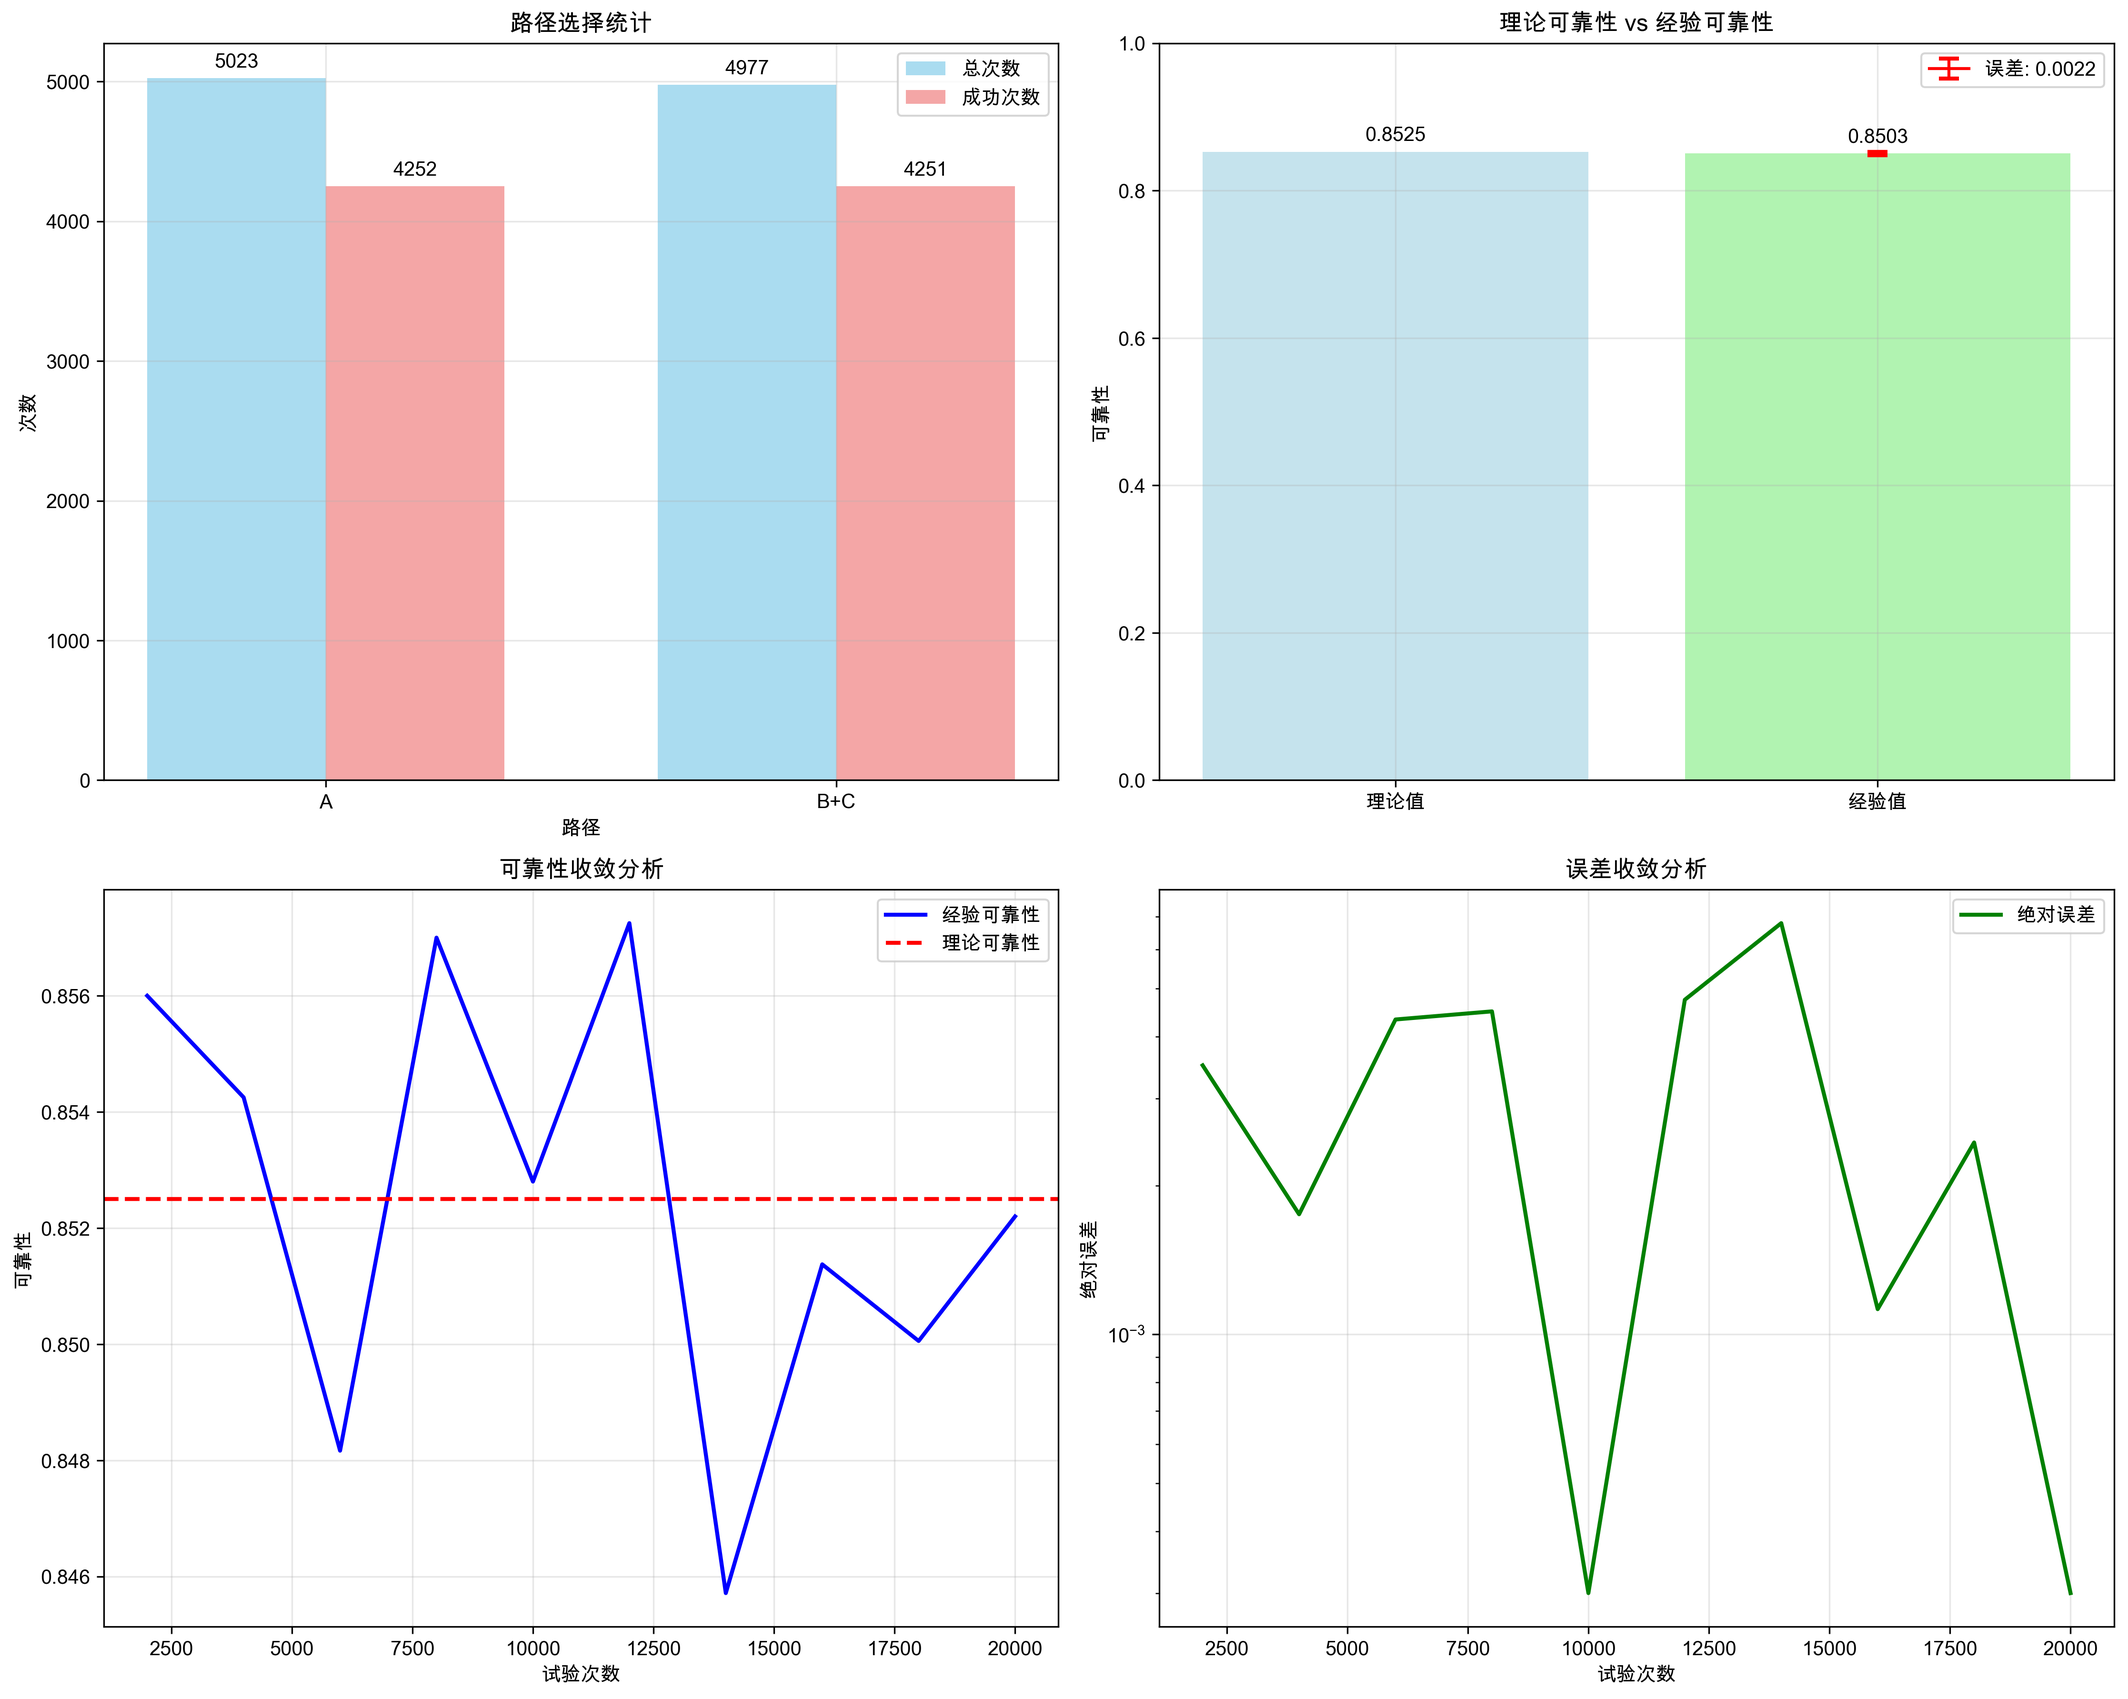
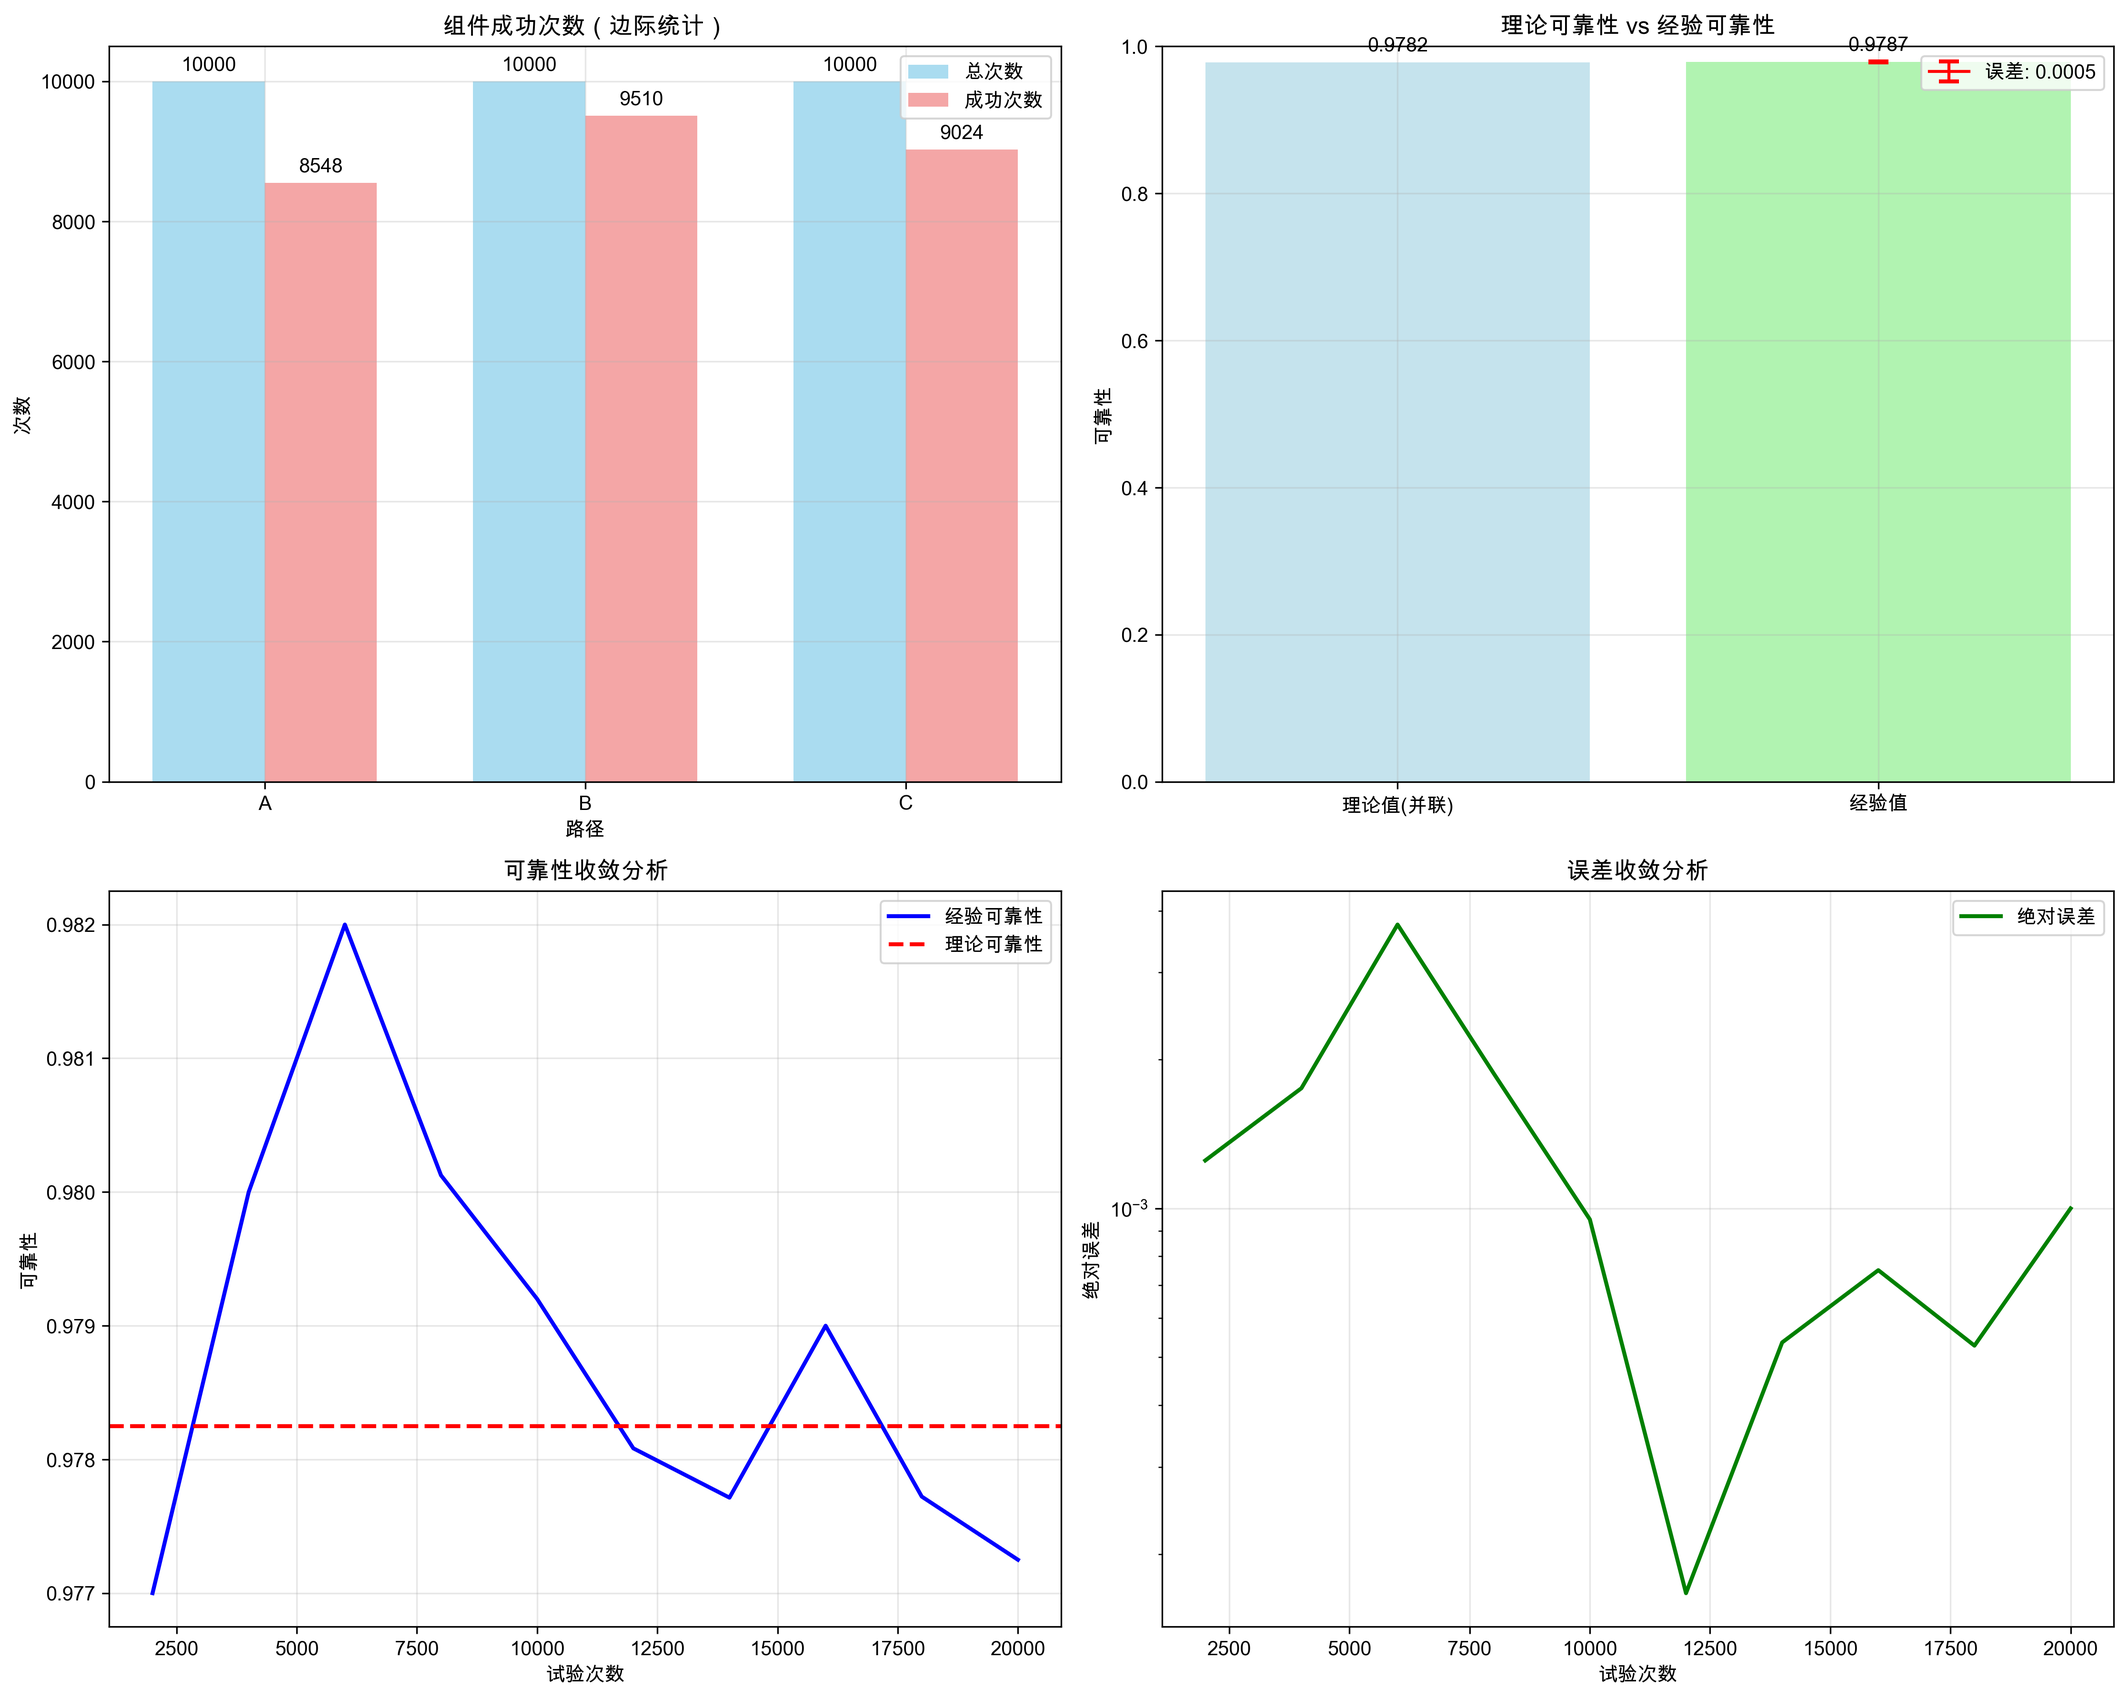
修正任务5

diff --git a/作业一/q5/system_reliability.py b/作业一/q5/system_reliability.py
@@ -13,20 +13,17 @@ class SystemReliability:
         """
         初始化系统可靠性仿真
         
-        系统结构：
-        - 输入通过两条路径：A路径 或 B+C路径
-        - A路径：50%概率，可靠性85%
-        - B+C路径：50%概率，B可靠性95%，C可靠性90%
+        系统结构（并联）：
+        - 上支路：组件A（可靠性85%）
+        - 下支路：组件B与组件C串联（可靠性 0.95×0.90=0.855）
+        - 系统成功条件：A 成功，或 B 与 C 同时成功
         """
         self.component_reliability = {
             'A': 0.85,
             'B': 0.95,
             'C': 0.90
         }
-        self.path_probability = {
-            'A': 0.5,  # 50%时间通过A
-            'B+C': 0.5  # 50%时间通过B+C
-        }
+        # 并联系统不需要路径选择概率
         
         # 计算理论可靠性
         self.theoretical_reliability = self.calculate_theoretical_reliability()
@@ -38,9 +35,9 @@ class SystemReliability:
         返回:
         float: 理论可靠性
         """
-        # P(系统成功) = P(通过A) × P(A成功) + P(通过B+C) × P(B成功) × P(C成功)
-        reliability = (self.path_probability['A'] * self.component_reliability['A'] + 
-                      self.path_probability['B+C'] * self.component_reliability['B'] * self.component_reliability['C'])
+        # 并联系统：R = 1 - (1-RA)*(1-RB*RC)
+        reliability_bc = self.component_reliability['B'] * self.component_reliability['C']
+        reliability = 1.0 - (1.0 - self.component_reliability['A']) * (1.0 - reliability_bc)
         return reliability
     
     def simulate_single_trial(self):
@@ -50,42 +47,25 @@ class SystemReliability:
         返回:
         dict: 包含试验结果的字典
         """
-        # 随机选择路径
-        path_choice = np.random.choice(['A', 'B+C'], p=[0.5, 0.5])
-        
-        if path_choice == 'A':
-            # A路径：生成一个随机数，如果≤0.85则成功
-            random_num = np.random.random()
-            success = random_num <= self.component_reliability['A']
-            return {
-                'path': 'A',
-                'success': success,
-                'random_num': random_num,
-                'threshold': self.component_reliability['A'],
-                'components': ['A']
-            }
-        else:
-            # B+C路径：生成两个随机数
-            random_num_b = np.random.random()
-            random_num_c = np.random.random()
-            
-            success_b = random_num_b <= self.component_reliability['B']
-            success_c = random_num_c <= self.component_reliability['C']
-            
-            # 只有B和C都成功，整个路径才成功
-            success = success_b and success_c
-            
-            return {
-                'path': 'B+C',
-                'success': success,
-                'random_num_b': random_num_b,
-                'random_num_c': random_num_c,
-                'threshold_b': self.component_reliability['B'],
-                'threshold_c': self.component_reliability['C'],
-                'success_b': success_b,
-                'success_c': success_c,
-                'components': ['B', 'C']
-            }
+        # 同时抽样三个组件是否成功
+        r_a = np.random.random()
+        r_b = np.random.random()
+        r_c = np.random.random()
+
+        success_a = r_a <= self.component_reliability['A']
+        success_b = r_b <= self.component_reliability['B']
+        success_c = r_c <= self.component_reliability['C']
+
+        success_bc = success_b and success_c
+        success = success_a or success_bc
+
+        return {
+            'success': success,
+            'success_a': success_a,
+            'success_b': success_b,
+            'success_c': success_c,
+            'components': ['A', 'B', 'C']
+        }
     
     def monte_carlo_simulation(self, num_trials=10000):
         """
@@ -101,8 +81,8 @@ class SystemReliability:
         
         results = []
         successful_trials = 0
-        path_counts = {'A': 0, 'B+C': 0}
-        path_successes = {'A': 0, 'B+C': 0}
+        # 统计单个组件的成功次数
+        component_successes = {'A': 0, 'B': 0, 'C': 0}
         
         for trial in range(num_trials):
             if trial % 1000 == 0 and trial > 0:
@@ -114,21 +94,16 @@ class SystemReliability:
             if result['success']:
                 successful_trials += 1
             
-            # 统计路径选择
-            path_counts[result['path']] += 1
-            if result['success']:
-                path_successes[result['path']] += 1
+            # 统计组件成功情况
+            component_successes['A'] += 1 if result['success_a'] else 0
+            component_successes['B'] += 1 if result['success_b'] else 0
+            component_successes['C'] += 1 if result['success_c'] else 0
         
         # 计算统计结果
         empirical_reliability = successful_trials / num_trials
         
-        # 计算路径成功率
-        path_success_rates = {}
-        for path in ['A', 'B+C']:
-            if path_counts[path] > 0:
-                path_success_rates[path] = path_successes[path] / path_counts[path]
-            else:
-                path_success_rates[path] = 0
+        # 组件边际成功率（用于参考）
+        component_success_rates = {k: v / num_trials for k, v in component_successes.items()}
         
         print(f"仿真完成！成功次数: {successful_trials}/{num_trials}")
         print(f"经验可靠性: {empirical_reliability:.6f}")
@@ -141,9 +116,8 @@ class SystemReliability:
             'empirical_reliability': empirical_reliability,
             'theoretical_reliability': self.theoretical_reliability,
             'error': abs(empirical_reliability - self.theoretical_reliability),
-            'path_counts': path_counts,
-            'path_successes': path_successes,
-            'path_success_rates': path_success_rates,
+            'component_successes': component_successes,
+            'component_success_rates': component_success_rates,
             'results': results
         }
     
@@ -189,10 +163,10 @@ class SystemReliability:
         else:
             fig, (ax1, ax2) = plt.subplots(1, 2, figsize=(15, 6))
         
-        # 左图：路径选择分布
-        paths = list(sim_result['path_counts'].keys())
-        counts = list(sim_result['path_counts'].values())
-        success_counts = list(sim_result['path_successes'].values())
+        # 左图：组件成功次数（边际）
+        paths = list(sim_result['component_successes'].keys())
+        counts = [sim_result['num_trials']] * len(paths)
+        success_counts = list(sim_result['component_successes'].values())
         
         x = np.arange(len(paths))
         width = 0.35
@@ -202,7 +176,7 @@ class SystemReliability:
         
         ax1.set_xlabel('路径')
         ax1.set_ylabel('次数')
-        ax1.set_title('路径选择统计')
+        ax1.set_title('组件成功次数（边际统计）')
         ax1.set_xticks(x)
         ax1.set_xticklabels(paths)
         ax1.legend()
@@ -214,7 +188,7 @@ class SystemReliability:
             ax1.text(i + width/2, success + max(counts)*0.01, str(success), ha='center', va='bottom')
         
         # 右图：可靠性对比
-        categories = ['理论值', '经验值']
+        categories = ['理论值(并联)', '经验值']
         values = [sim_result['theoretical_reliability'], sim_result['empirical_reliability']]
         colors = ['lightblue', 'lightgreen']
         
@@ -285,13 +259,11 @@ class SystemReliability:
         print(f"相对误差: {sim_result['error'] / sim_result['theoretical_reliability'] * 100:.4f}%")
         
         # 路径分析
-        print(f"\n路径分析:")
+        print(f"\n组件边际成功率:")
         print("-" * 30)
-        for path in ['A', 'B+C']:
-            count = sim_result['path_counts'][path]
-            success = sim_result['path_successes'][path]
-            success_rate = sim_result['path_success_rates'][path]
-            print(f"{path}路径: {success}/{count} = {success_rate:.4f}")
+        for comp in ['A', 'B', 'C']:
+            rate = sim_result['component_success_rates'][comp]
+            print(f"组件{comp}: {rate:.4f}")
         
         # 组件分析
         print(f"\n组件可靠性分析:")
@@ -303,15 +275,10 @@ class SystemReliability:
         # 理论计算验证
         print(f"\n理论计算验证:")
         print("-" * 30)
-        path_a_contribution = self.path_probability['A'] * self.component_reliability['A']
-        path_bc_contribution = (self.path_probability['B+C'] * 
-                              self.component_reliability['B'] * 
-                              self.component_reliability['C'])
-        total_reliability = path_a_contribution + path_bc_contribution
-        
-        print(f"A路径贡献: {self.path_probability['A']} × {self.component_reliability['A']} = {path_a_contribution:.4f}")
-        print(f"B+C路径贡献: {self.path_probability['B+C']} × {self.component_reliability['B']} × {self.component_reliability['C']} = {path_bc_contribution:.4f}")
-        print(f"总可靠性: {path_a_contribution:.4f} + {path_bc_contribution:.4f} = {total_reliability:.4f}")
+        reliability_bc = self.component_reliability['B'] * self.component_reliability['C']
+        total_reliability = 1.0 - (1.0 - self.component_reliability['A']) * (1.0 - reliability_bc)
+        print(f"R_BC = {self.component_reliability['B']} × {self.component_reliability['C']} = {reliability_bc:.4f}")
+        print(f"R_sys = 1 - (1-RA)(1-RBC) = {total_reliability:.5f}")
 
 def main():
     """
@@ -319,10 +286,9 @@ def main():
     """
     print("系统可靠性仿真 - 蒙特卡洛方法")
     print("=" * 50)
-    print("系统结构:")
-    print("- 输入通过两条路径：A路径 或 B+C路径")
-    print("- A路径：50%概率，可靠性85%")
-    print("- B+C路径：50%概率，B可靠性95%，C可靠性90%")
+    print("系统结构：并联")
+    print("- 上支路：A，可靠性0.85")
+    print("- 下支路：B与C串联，可靠性0.95×0.90=0.855")
     print("=" * 50)
     
     # 创建系统可靠性实例
@@ -348,8 +314,6 @@ def main():
         'Component_A_Reliability': system.component_reliability['A'],
         'Component_B_Reliability': system.component_reliability['B'],
         'Component_C_Reliability': system.component_reliability['C'],
-        'Path_A_Probability': system.path_probability['A'],
-        'Path_B+C_Probability': system.path_probability['B+C'],
         'Theoretical_Reliability': sim_result['theoretical_reliability'],
         'Empirical_Reliability': sim_result['empirical_reliability'],
         'Error': sim_result['error'],

diff --git a/作业一/1.md b/作业一/1.md
@@ -44,12 +44,14 @@ $$ f(x, y) = e^{-(x^2 + y^2)} $$
 
 图3 由分立部件组成的系统。
 
-当给定系统输入时，该输入通过部件A或通过部件B和C流动，每个部件都有一定的正确性可靠性。概率论告诉我们以下内容：
+当给定系统输入时，系统包含两条并联路径：上支路为组件A，下支路为组件B与组件C串联。只要至少有一条路径工作，系统就成功。概率论告诉我们以下内容：
 
-$$ P(\text{系统成功}) = P(\text{通过A}) \times P(\text{A成功}) + P(\text{通过B和C}) \times P(\text{B成功}) \times P(\text{C成功}) $$
+$$ \text{reliability}_{BC} = 0.95 \times 0.90 = 0.855 $$
 
-整个系统的可靠性是：
+$$ \text{reliability}_A = 0.85 $$
 
-$$ R_{\text{系统}} = 0.5 \times 0.85 + 0.5 \times 0.95 \times 0.90 = 0.425 + 0.4275 = 0.8525 $$
+整个系统的可靠性（并联）为：
 
-创建这个系统的仿真，其中一半时间输入通过部件A。为了仿真其可靠性，生成一个0到1之间的数字。如果数字是0.85或以下，部件A成功，系统工作。另一半时间，输入将在图的下半部分流动。为了仿真这一点，你将生成两个0到1之间的数字。如果部件B的数字小于0.95，部件C的数字小于0.90，那么系统也成功。运行多次试验，看看你是否收敛到概率论预测的相同可靠性。
+$$ R_{\text{系统}} = 1 - \big(1 - R_A\big)\,\big(1 - R_{BC}\big) = 1 - (1-0.85)(1-0.855) = 0.97825 $$
+
+创建该系统的仿真：每次试验独立判断组件A是否成功（阈值0.85），组件B是否成功（0.95）和组件C是否成功（0.90）。若“A成功”或“B与C同时成功”，则系统成功。运行多次试验，观察经验可靠性是否收敛到理论值0.97825。
